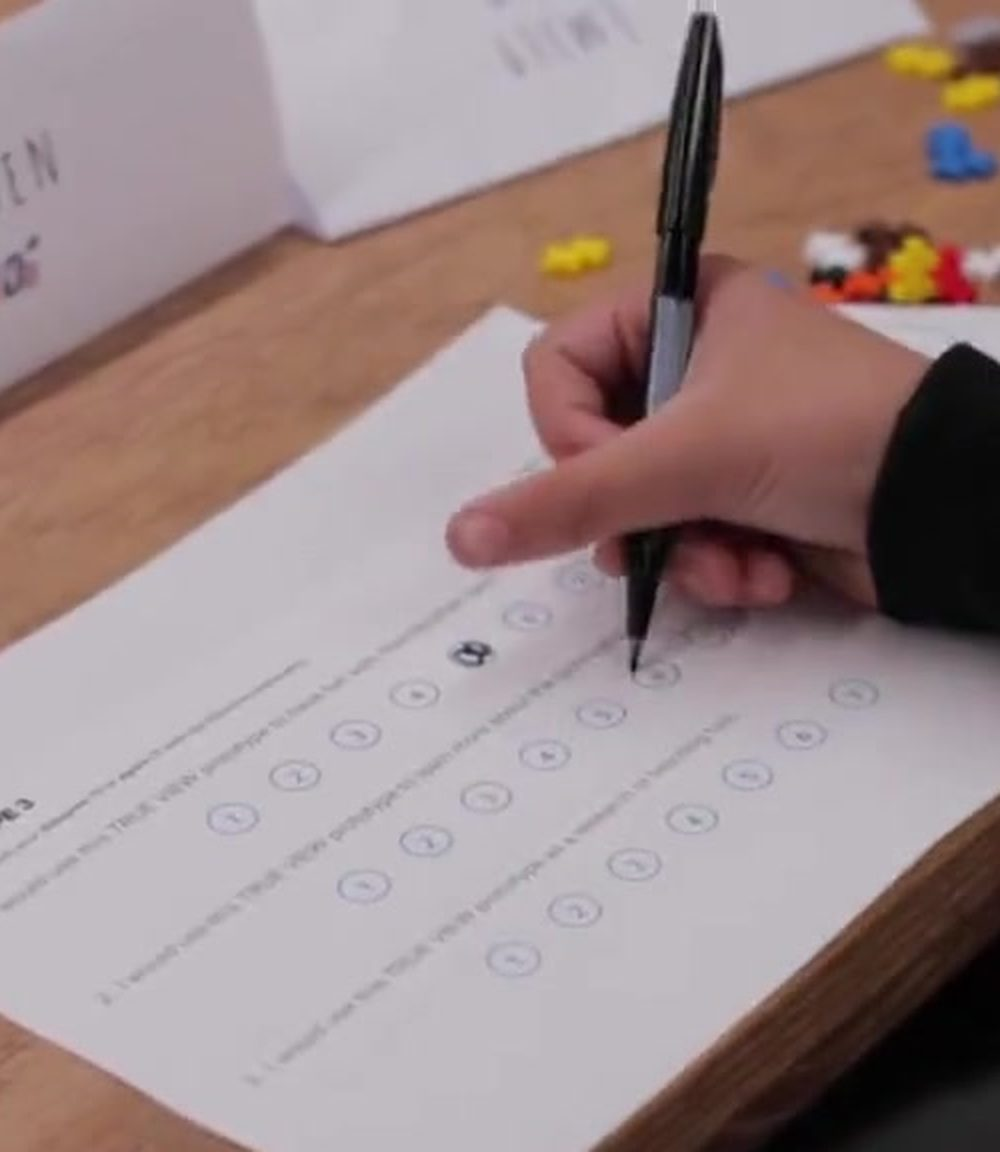
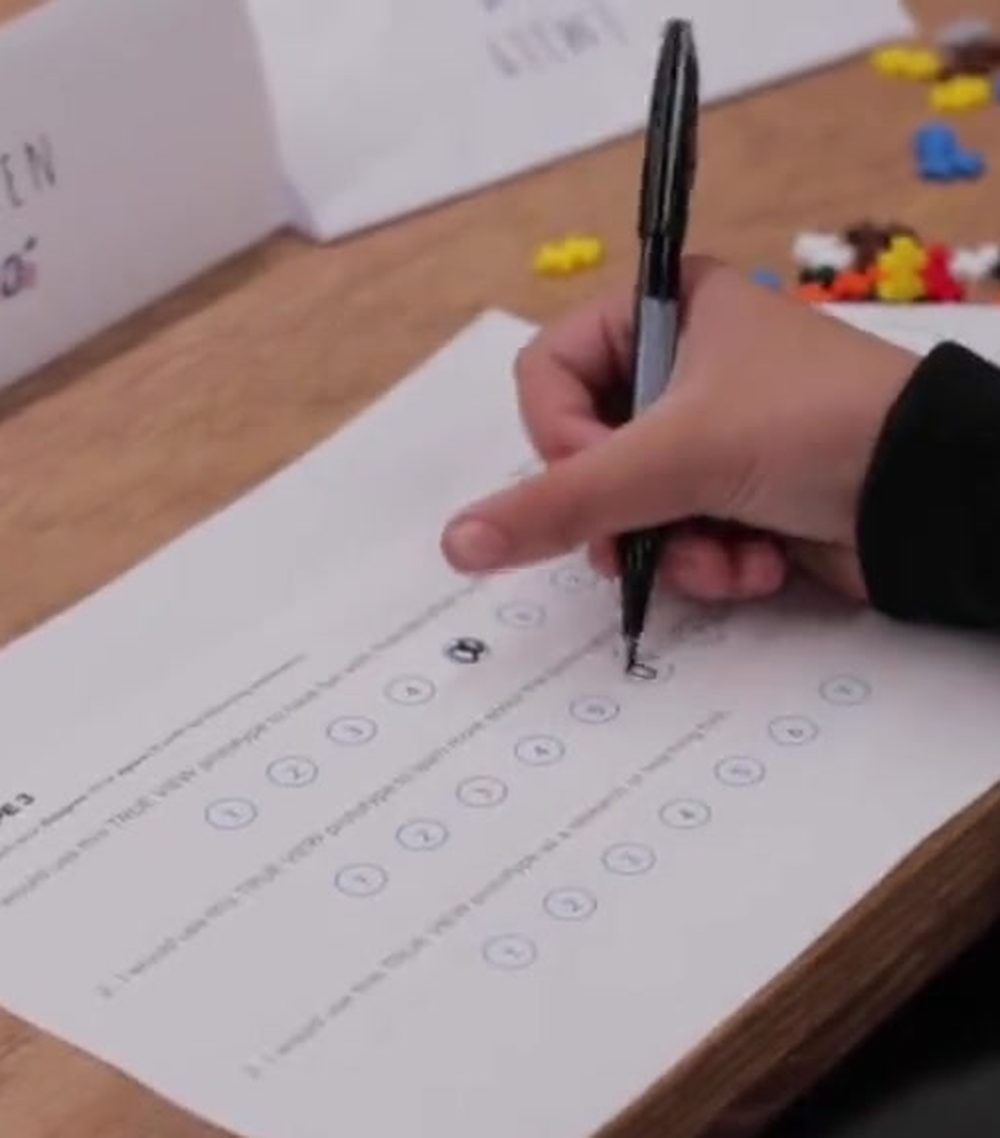
Refocus the hero slideshow on Sam himself: two over-the-shoulder shots of him completing the prototype survey lead the rotation (other-person frames dropped), and the About portrait swaps to the sharpest variant

diff --git a/index.html b/index.html
@@ -53,11 +53,11 @@
     <section class="hero hero-page hero-cinema">
       <div class="hero-media" aria-hidden="true">
         <div class="hero-slides" data-hero-slides>
-          <img class="hero-slide is-active" src="media/hero/slide-writing.jpg" alt="" fetchpriority="high" decoding="async" />
-          <img class="hero-slide" src="media/hero/slide-trueview.jpg" alt="" loading="lazy" decoding="async" />
+          <img class="hero-slide is-active" src="media/hero/slide-sam-writing.jpg" alt="" fetchpriority="high" decoding="async" />
+          <img class="hero-slide" src="media/hero/slide-persona.jpg" alt="" loading="lazy" decoding="async" />
+          <img class="hero-slide" src="media/hero/slide-sam-pen.jpg" alt="" loading="lazy" decoding="async" />
           <img class="hero-slide" src="media/hero/slide-survey-lance.jpg" alt="" loading="lazy" decoding="async" />
           <img class="hero-slide" src="media/hero/slide-survey-alanna.jpg" alt="" loading="lazy" decoding="async" />
-          <img class="hero-slide" src="media/hero/slide-persona.jpg" alt="" loading="lazy" decoding="async" />
         </div>
       </div>
       <div class="hero-scrim" aria-hidden="true"></div>

diff --git a/about.html b/about.html
@@ -63,7 +63,7 @@
         </div>
         <div class="reveal">
           <figure class="about-portrait">
-            <img src="media/about-sam.jpg" alt="Samuel Weinberger annotating a prototype evaluation survey during an NFL research session" loading="lazy" decoding="async" width="1000" height="1152" />
+            <img src="media/about-sam.jpg" alt="Samuel Weinberger annotating a prototype evaluation survey during an NFL research session" loading="lazy" decoding="async" width="1000" height="1138" />
             <figcaption>In the field &mdash; prototype evaluation during an NFL &times; Intel research session.</figcaption>
           </figure>
           <div class="pill-row">

diff --git a/generate.py b/generate.py
@@ -1310,11 +1310,11 @@ def write_home():
     <section class="hero hero-page hero-cinema">
       <div class="hero-media" aria-hidden="true">
         <div class="hero-slides" data-hero-slides>
-          <img class="hero-slide is-active" src="media/hero/slide-writing.jpg" alt="" fetchpriority="high" decoding="async" />
-          <img class="hero-slide" src="media/hero/slide-trueview.jpg" alt="" loading="lazy" decoding="async" />
+          <img class="hero-slide is-active" src="media/hero/slide-sam-writing.jpg" alt="" fetchpriority="high" decoding="async" />
+          <img class="hero-slide" src="media/hero/slide-persona.jpg" alt="" loading="lazy" decoding="async" />
+          <img class="hero-slide" src="media/hero/slide-sam-pen.jpg" alt="" loading="lazy" decoding="async" />
           <img class="hero-slide" src="media/hero/slide-survey-lance.jpg" alt="" loading="lazy" decoding="async" />
           <img class="hero-slide" src="media/hero/slide-survey-alanna.jpg" alt="" loading="lazy" decoding="async" />
-          <img class="hero-slide" src="media/hero/slide-persona.jpg" alt="" loading="lazy" decoding="async" />
         </div>
       </div>
       <div class="hero-scrim" aria-hidden="true"></div>
@@ -1717,7 +1717,7 @@ def write_about_page():
         </div>
         <div class="reveal">
           <figure class="about-portrait">
-            <img src="media/about-sam.jpg" alt="Samuel Weinberger annotating a prototype evaluation survey during an NFL research session" loading="lazy" decoding="async" width="1000" height="1152" />
+            <img src="media/about-sam.jpg" alt="Samuel Weinberger annotating a prototype evaluation survey during an NFL research session" loading="lazy" decoding="async" width="1000" height="1138" />
             <figcaption>In the field &mdash; prototype evaluation during an NFL &times; Intel research session.</figcaption>
           </figure>
           <div class="pill-row">
